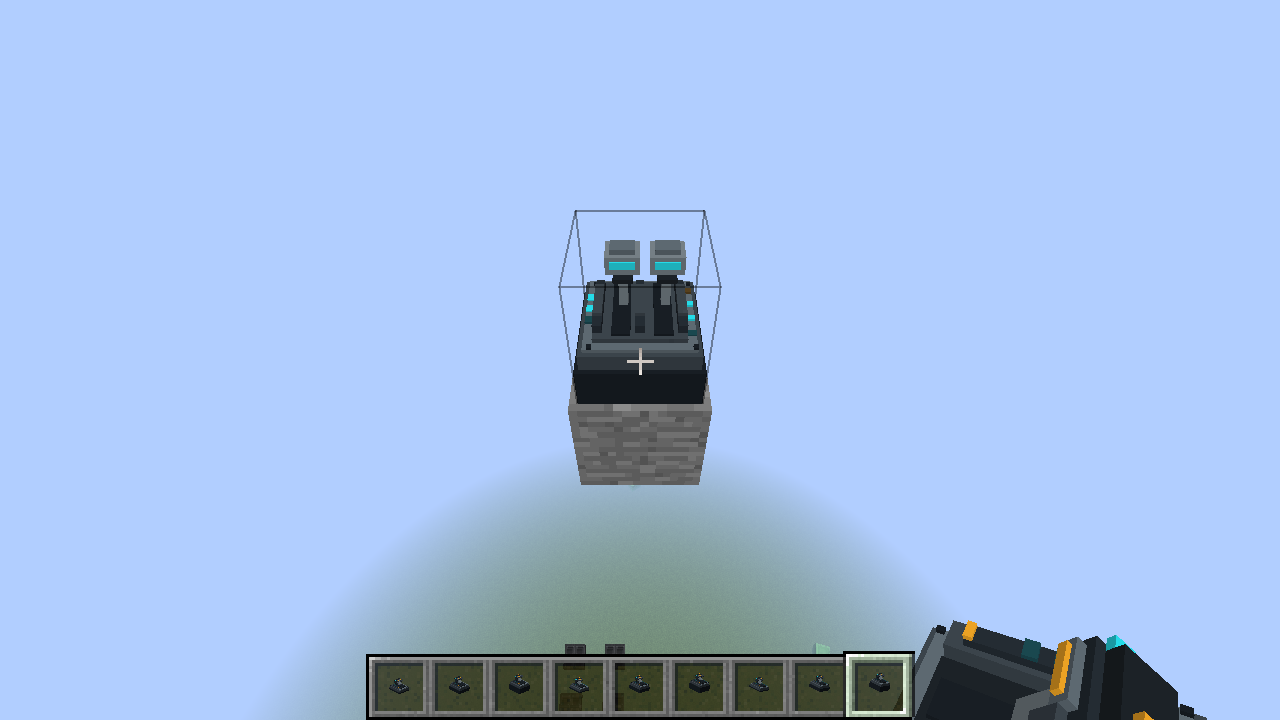
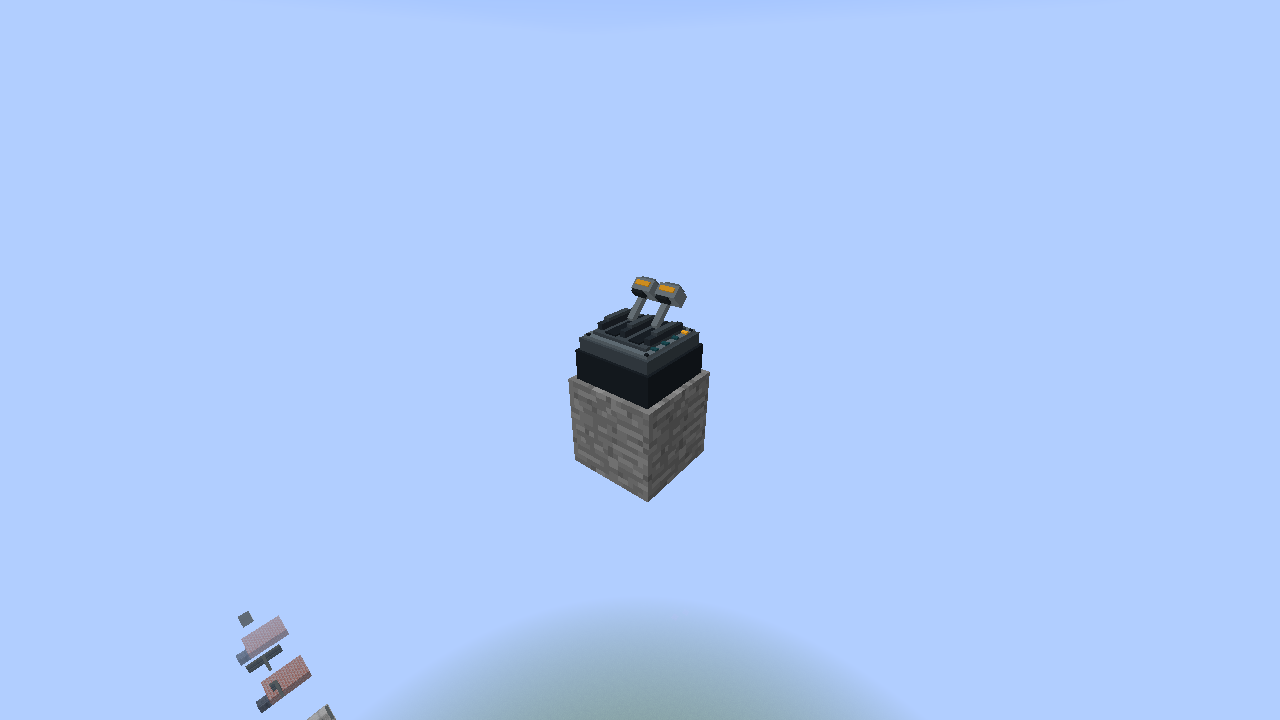
Document throttle height and solid tilt options with updated gallery views

Changed region(s): [[0.1875, 0.3056, 0.9375, 1.0]]

diff --git a/docs/gallery/controls.md b/docs/gallery/controls.md
@@ -31,13 +31,15 @@ for lighting, propulsion and screen settings.
 Thruster Lever, Airliner Throttle and Fighter Throttle have configurable bases.
 Shift-right-click a placed control, or right-click it with the Configurizer in
 survival, to open its channel/settings dialog. Set **Base height** to **Standard**
-(the original minimum), **+2 px** or **+4 px**. The solid mounting plate extends;
+(the original minimum), **+2 px**, **+4 px** or **+6 px**. The solid mounting plate extends;
 the panel and handles above it move together.
 
-Set **Tilt** to **Flat**, **5 deg**, **10 deg** or **15 deg**, then select
+Set **Tilt** to **Flat**, **15 deg**, **30 deg** or **45 deg**, then select
 **Forward**, **Right**, **Backward** or **Left** relative to the mounted control.
-The entire base, panel and handles tilt together. This works on walls, floors
-and ceilings, and the selection outline follows the transformed control.
+The entire base, panel and handles tilt together. A solid wedge fills the space
+between the tilted base and its support. This works on walls, floors and ceilings.
+The controls have solid collision for their base, panel and handles, with a stepped
+collision surface along the wedge. The selection outline follows the control.
 Click **Done** to apply. Right-click a setting button to cycle backward.
 
 Existing controls remain Standard/Flat. Height and tilt survive saving,
@@ -47,10 +49,18 @@ The Wall Slider retains its existing mounting geometry.
 
 ![Throttle height and tilt settings](../images/gallery/controls/airliner-throttle-config.png)
 
-The pictures show different signal detents as well as the mounting settings.
+All pictures below use the Off detent so the mounting settings can be compared directly.
 
-| Control | Standard | +2 px | +4 px | Tilted 15 degrees |
+| Control | Standard | +2 px | +4 px | +6 px |
 | --- | --- | --- | --- | --- |
-| Thruster Lever | ![Thruster Lever standard](../images/gallery/controls/thruster-lever-standard.png) | ![Thruster Lever raised 2 px](../images/gallery/controls/thruster-lever-raised-2px.png) | ![Thruster Lever raised 4 px](../images/gallery/controls/thruster-lever-raised-4px.png) | ![Thruster Lever tilted](../images/gallery/controls/thruster-lever-tilted.png) |
-| Airliner Throttle | ![Airliner Throttle standard](../images/gallery/controls/airliner-throttle-standard.png) | ![Airliner Throttle raised 2 px](../images/gallery/controls/airliner-throttle-raised-2px.png) | ![Airliner Throttle raised 4 px](../images/gallery/controls/airliner-throttle-raised-4px.png) | ![Airliner Throttle tilted](../images/gallery/controls/airliner-throttle-tilted.png) |
-| Fighter Throttle | ![Fighter Throttle standard](../images/gallery/controls/fighter-throttle-standard.png) | ![Fighter Throttle raised 2 px](../images/gallery/controls/fighter-throttle-raised-2px.png) | ![Fighter Throttle raised 4 px](../images/gallery/controls/fighter-throttle-raised-4px.png) | ![Fighter Throttle tilted](../images/gallery/controls/fighter-throttle-tilted.png) |
+| Thruster Lever | ![Thruster Lever standard](../images/gallery/controls/thruster-lever-standard.png) | ![Thruster Lever raised 2 px](../images/gallery/controls/thruster-lever-raised-2px.png) | ![Thruster Lever raised 4 px](../images/gallery/controls/thruster-lever-raised-4px.png) | ![Thruster Lever raised 6 px](../images/gallery/controls/thruster-lever-raised-6px.png) |
+| Airliner Throttle | ![Airliner Throttle standard](../images/gallery/controls/airliner-throttle-standard.png) | ![Airliner Throttle raised 2 px](../images/gallery/controls/airliner-throttle-raised-2px.png) | ![Airliner Throttle raised 4 px](../images/gallery/controls/airliner-throttle-raised-4px.png) | ![Airliner Throttle raised 6 px](../images/gallery/controls/airliner-throttle-raised-6px.png) |
+| Fighter Throttle | ![Fighter Throttle standard](../images/gallery/controls/fighter-throttle-standard.png) | ![Fighter Throttle raised 2 px](../images/gallery/controls/fighter-throttle-raised-2px.png) | ![Fighter Throttle raised 4 px](../images/gallery/controls/fighter-throttle-raised-4px.png) | ![Fighter Throttle raised 6 px](../images/gallery/controls/fighter-throttle-raised-6px.png) |
+
+| Control | 15 degrees | 30 degrees | 45 degrees |
+| --- | --- | --- | --- |
+| Thruster Lever | ![Thruster Lever tilted 15 degrees](../images/gallery/controls/thruster-lever-tilted-15.png) | ![Thruster Lever tilted 30 degrees](../images/gallery/controls/thruster-lever-tilted-30.png) | ![Thruster Lever tilted 45 degrees](../images/gallery/controls/thruster-lever-tilted-45.png) |
+| Airliner Throttle | ![Airliner Throttle tilted 15 degrees](../images/gallery/controls/airliner-throttle-tilted-15.png) | ![Airliner Throttle tilted 30 degrees](../images/gallery/controls/airliner-throttle-tilted-30.png) | ![Airliner Throttle tilted 45 degrees](../images/gallery/controls/airliner-throttle-tilted-45.png) |
+| Fighter Throttle | ![Fighter Throttle tilted 15 degrees](../images/gallery/controls/fighter-throttle-tilted-15.png) | ![Fighter Throttle tilted 30 degrees](../images/gallery/controls/fighter-throttle-tilted-30.png) | ![Fighter Throttle tilted 45 degrees](../images/gallery/controls/fighter-throttle-tilted-45.png) |
+
+Existing 15-degree mounts keep that angle. Earlier 5-degree and 10-degree mounts use 15 degrees when loaded.

diff --git a/CHANGELOG.md b/CHANGELOG.md
@@ -4,7 +4,7 @@
 
 - Add Open helmets and Short Sleeves chestplates for all eight armor roles, with matching inventory icons and 16 additional slot-filtered choices. Preserve original IDs, artwork and defaults; map Duplifier copies to matching alternate pieces and standard leggings/boots.
 
-- Configure Thruster Lever, Airliner Throttle and Fighter Throttle bases at their original minimum height, +2 px or +4 px. Tilt the complete control by 5, 10 or 15 degrees forward, backward, left or right. Match selection bounds to the transformed artwork, preserve settings in saves and configured drops/items, and copy them with the Duplifier’s Signal Levels option.
+- Configure Thruster Lever, Airliner Throttle and Fighter Throttle bases at their original minimum height, +2 px, +4 px or +6 px. Tilt the complete control by 15, 30 or 45 degrees forward, backward, left or right. Fill the tilted base down to its support and give the base, panel and handles solid component collision. Match selection bounds to the transformed artwork, preserve settings in saves and configured drops/items, and copy them with the Duplifier’s Signal Levels option.
 
 - Add Custom... to the armor picker, reusing the non-consuming inventory block/door sampler. Preserve the selected Custom row across dialog reopening, resolve configured item artwork, and support custom appearances in worn armor, icons and Duplifier copies.
 

diff --git a/docs/gallery/version-1.7.md b/docs/gallery/version-1.7.md
@@ -35,13 +35,14 @@ The armor picker now includes **Custom...**, using the same non-consuming invent
 ## Throttle base height and tilt
 
 Thruster Lever, Airliner Throttle and Fighter Throttle now offer **Standard**,
-**+2 px** and **+4 px** base heights in their configuration dialog. Standard is
+**+2 px**, **+4 px** and **+6 px** base heights in their configuration dialog. Standard is
 the original minimum height. The mounting plate extends while the panel and
 handles move upward together, or outward from a wall/ceiling support.
 
-Choose **Flat**, **5 deg**, **10 deg** or **15 deg** and a direction to tilt the
+Choose **Flat**, **15 deg**, **30 deg** or **45 deg** and a direction to tilt the
 whole control, including its base. Directions follow the control’s mounting
-orientation. Selection outlines follow the transformed model. Shift-right-click
+orientation. A solid wedge fills underneath a tilted base, and the base, panel
+and handles block movement. Selection outlines follow the transformed model. Shift-right-click
 the control to open the dialog, or use the Configurizer in survival; click
 **Done** to apply. Saved worlds, configured drops and pick-block retain the
 settings, and the Duplifier copies them through **Signal Levels**. See the
